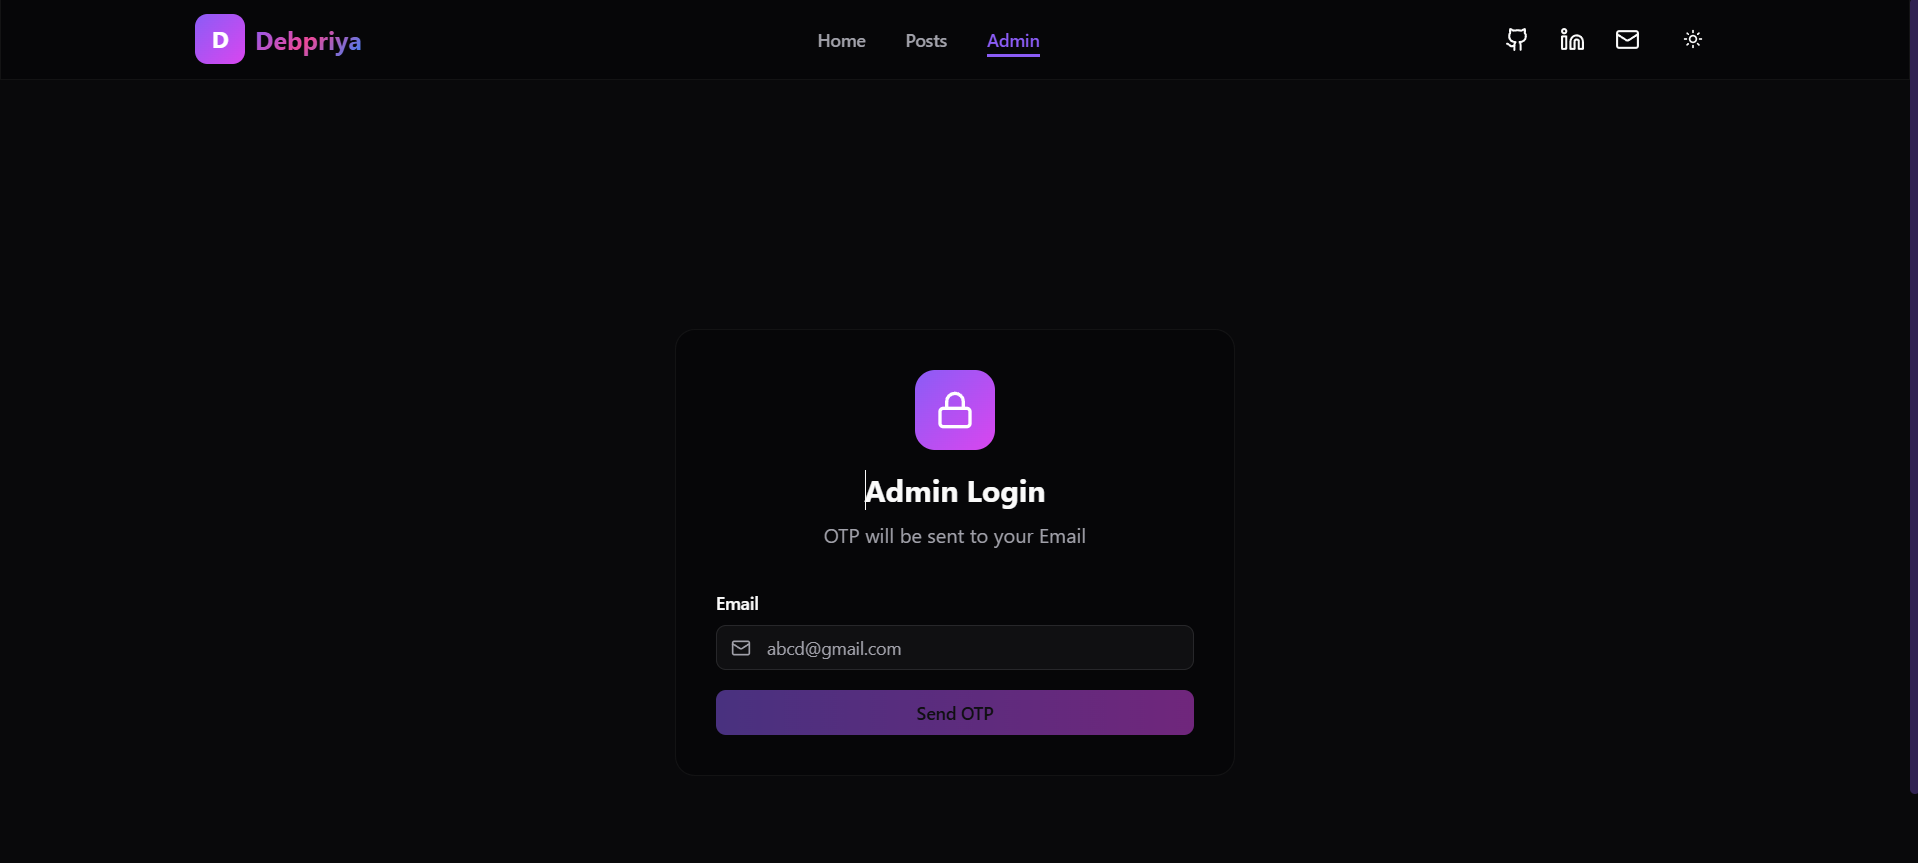
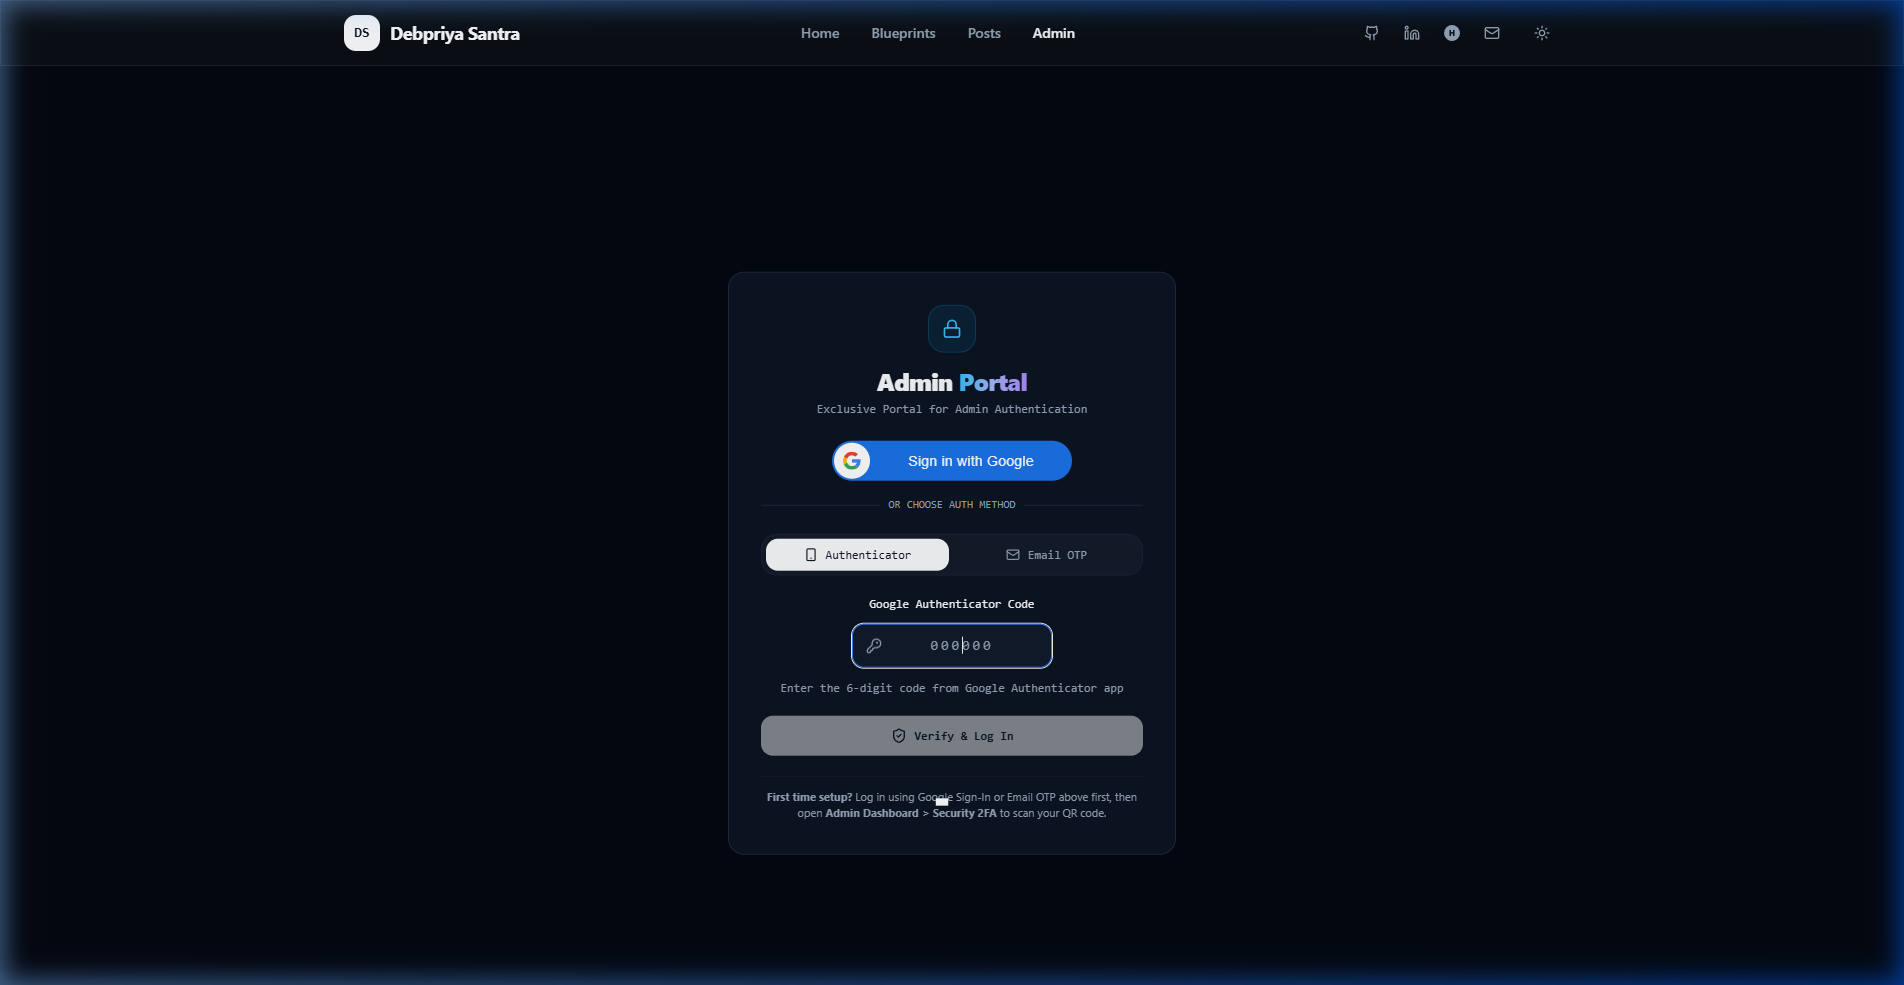
modified readme

Changed region(s): [[0.0, 0.0, 1.0, 1.0], [0.3718, 0.3013, 0.6507, 0.8737]]

diff --git a/README.md b/README.md
@@ -1,151 +1,184 @@
+# Debpriya Santra — Engineering Portfolio & Architecture Blueprints
 
-# My Portfolio Website
+🌐 **Live Demo:** [portfolio-7xje.onrender.com](https://portfolio-7xje.onrender.com/)
 
-🌐 Live Demo: https://portfolio-7xje.onrender.com/
+A modern, high-performance personal portfolio and engineering platform engineered with a bespoke dark/light technical design system, interactive data pipeline visualization, production automation blueprints, real-time LinkedIn activity sync, and an authenticated administrative suite.
 
+---
 
-## 📸 Application Preview
+## 📸 Application Previews
 
-| Home Page | Admin Login |
-|-----------|----------|
-| <img src="screenshots/home.png" width="450"/> | <img src="screenshots/admin login.png" width="450"/> |
+| Home Page & Pipeline Visualization                            | API Architecture & Blueprints                                                     |
+| :-------------------------------------------------------------:| :---------------------------------------------------------------------------------:|
+| <img src="screenshots/home.png" width="480" alt="Home Page"/> | <img src="screenshots/blueprints.png" width="480" alt="Architecture Blueprints"/> |
 
-| Admin Dashboard | Posts Management |
-|-----------------|----------------|
-| <img src="screenshots/admin-dashboard.png" width="450"/> | <img src="screenshots/posts.png" width="450"/> |
+| LinkedIn Activity & Engineering Notes | Admin Authentication & 2FA Portal |
+| :---: | :---: |
+| <img src="screenshots/posts.png" width="480" alt="LinkedIn Activity"/> | <img src="screenshots/admin login.png" width="480" alt="Admin Portal"/> |
 
-This is a full-stack web application that serves as my personal portfolio. It showcases my skills, experience, education, and projects. The application is built with a modern tech stack, featuring a React frontend and a Node.js/Express backend.
+---
 
-## Tech Stack
+## ⚡ Key Highlights & Architecture
+
+### 1. Interactive Pipeline & Workflow Telemetry
+- Real-time telemetry nodes demonstrating end-to-end data pipelines: ingestion, transformation, queueing, storage, and analytics.
+- Fluid pulse animations, status badges, and interactive tooltips.
+
+### 2. Production API Architecture & Automation Blueprints
+- In-depth technical guides for distributed workflows (e.g. *Pinterest v5 Asynchronous Upload Engine*, *PyViz Python AST Debugger*, *Mutual Fund Analytics Suite*).
+- Multi-stage sequential execution flows, endpoint schemas, sanitized parameters, and direct downloadable JSON assets.
+
+### 3. LinkedIn Activity & Engineering Notes
+- Integrated LinkedIn scraper engine storing posts, metrics (likes/comments), and media payloads into Neon PostgreSQL.
+- Instant manual sync and background updates.
+
+### 4. Secure Admin Suite with Multi-Factor 2FA
+- **Google OAuth:** One-tap sign-in restricted to authorized admin credentials.
+- **Google Authenticator (TOTP 2FA):** QR code provisioning and 6-digit TOTP verification.
+- **Email OTP:** Automated one-time passcode delivery powered by Brevo SMTP.
+- **Content & Inbox Management:** Dedicated dashboard tabs for managing posts, contact inbox messages, work history, skills, and security keys.
+
+### 5. Interactive Chatbot Assistant
+- Floating digital assistant widget with conversational navigation shortcuts to blueprints, guides, and activity feeds.
+
+---
+
+## 🛠 Technology Stack
 
 ### Frontend
+- **Framework:** React 19 + TypeScript
+- **Bundler:** Vite 7
+- **Styling:** Tailwind CSS + Bespoke High-Contrast Design System
+- **Animation & Motion:** Framer Motion
+- **Icons:** Lucide React
+- **Notifications:** Sonner Toast Engine
 
-- **Framework:** React
-- **Build Tool:** Vite
-- **Styling:** Tailwind CSS
-- **UI Components:** Radix UI, shadcn/ui
-- **Routing:** React Router
-- **State Management:** React Context
-- **Language:** TypeScript
+### Backend & Cloud Services
+- **Runtime:** Node.js + Express.js (ES Modules)
+- **Database:** Neon Serverless PostgreSQL
+- **Authentication:** Google OAuth 2.0 + TOTP (Speakeasy / QRCode) + Brevo Email OTP
+- **Scraping & Ingestion:** Custom LinkedIn extractor with Axios & Cheerio
+- **Deployment:** Render (Frontend & API Services)
 
-### Backend
+---
 
-- **Framework:** Express.js
-- **Database:** PostgreSQL (Neon Serverless)
-- **Authentication:** OTP-based admin login
-- **File Uploads:** Multer
-- **Email Service:** Brevo (via Nodemailer SMTP)
-- **Language:** JavaScript (ES Modules)
-
-## Deployment
-
-The application is deployed using modern cloud services.
-
-- **Frontend Hosting:** Render
-- **Backend Hosting:** Render
-- **Database:** Neon (Serverless PostgreSQL)
-- **Email Service:** Brevo (SMTP)
-
-## Getting Started
+## 🚀 Getting Started Locally
 
 ### Prerequisites
-
 - Node.js (v18 or higher)
-- npm
-- PostgreSQL
+- npm or pnpm
+- PostgreSQL connection string (Neon or Local)
 
-### Installation
+### 1. Clone the repository
+```bash
+git clone https://github.com/debpriya3011/PORTFOLIO.git
+cd PORTFOLIO/app
+```
 
-1.  **Clone the repository:**
-    ```bash
-    git clone <repository-url>
-    cd debpriya_portfolio/app
-    ```
+### 2. Install dependencies
+```bash
+# Install frontend dependencies
+npm install
 
-2.  **Install frontend dependencies:**
-    ```bash
-    npm install
-    ```
+# Install backend dependencies
+cd server
+npm install
+cd ..
+```
 
-3.  **Install backend dependencies:**
-    ```bash
-    cd server
-    npm install
-    cd ..
-    ```
+### 3. Configure Environment Variables
+Create a `.env` file in the `server/` directory:
+```env
+PORT=3001
+FRONTEND_URL=http://localhost:5173
+DATABASE_URL=postgresql://user:password@host:port/database
+GMAIL_USER=your-email@gmail.com
+GMAIL_APP_PASSWORD=your-app-password
+BREVO_LOGIN=your-brevo-login
+BREVO_SMTP_KEY=your-brevo-smtp-key
+ADMIN_EMAIL=debpriya3011@gmail.com
+```
 
-4.  **Set up environment variables:**
+Create a `.env` file in the `app/` directory:
+```env
+VITE_API_URL=http://localhost:3001
+VITE_GOOGLE_CLIENT_ID=your-google-client-id.apps.googleusercontent.com
+```
 
-    Create a `.env` file in the `server` directory and add the following variables:
+### 4. Run Development Servers
+```bash
+# Terminal 1: Run Backend API
+cd server
+npm run dev
 
-    ```
-    PORT=3001
-    FRONTEND_URL=http://localhost:5173
-    DATABASE_URL=postgresql://user:password@host:port/database
-    GMAIL_USER=your-email@gmail.com
-    GMAIL_APP_PASSWORD=your-gmail-app-password
-    BREVO_LOGIN=your-brevo-login
-    BREVO_SMTP_KEY=your-brevo-smtp-key
-    ```
+# Terminal 2: Run Frontend (from app directory)
+npm run dev
+```
+Open `http://localhost:5173` to explore the application.
 
-### Running the Application
+---
 
-1.  **Start the backend server:**
-    ```bash
-    cd server
-    npm run dev
-    ```
-
-2.  **Start the frontend development server:**
-    ```bash
-    # In a new terminal, from the root `app` directory
-    npm run dev
-    ```
-
-The application should now be running at `http://localhost:5173`.
-
-## Folder Structure
+## 📂 Project Structure
 
 ```
 app/
-├── server/               # Backend (Express.js)
-│   ├── database.js
-│   ├── index.js
-│   ├── package.json
-│   └── uploads/
-├── src/                  # Frontend (React)
-│   ├── components/
-│   ├── contexts/
-│   ├── hooks/
-│   ├── lib/
-│   ├── pages/
-│   ├── api.ts
-│   ├── App.tsx
-│   └── main.tsx
+├── screenshots/          # High-resolution application preview captures
+│   ├── home.png
+│   ├── blueprints.png
+│   ├── posts.png
+│   ├── admin login.png
+│   └── admin-dashboard.png
+├── server/               # Express.js REST API & Database Models
+│   ├── database.js       # Neon PostgreSQL connection & schema
+│   ├── index.js          # Route handlers, auth & scraping
+│   └── package.json
+├── src/                  # React Application
+│   ├── components/       # Reusable UI & Section components
+│   │   ├── Hero.tsx
+│   │   ├── WorkflowVisualization.tsx
+│   │   ├── Experience.tsx
+│   │   ├── Skills.tsx
+│   │   ├── Education.tsx
+│   │   ├── Contact.tsx
+│   │   ├── PostsWidget.tsx
+│   │   ├── Navbar.tsx
+│   │   └── Footer.tsx
+│   ├── pages/            # Page Views
+│   │   ├── Home.tsx
+│   │   ├── Guides.tsx    # Architecture Blueprints & Guides
+│   │   ├── Posts.tsx     # LinkedIn Engineering Notes
+│   │   └── Admin.tsx     # Authenticated Admin Dashboard
+│   ├── contexts/         # Auth & Theme Context Providers
+│   ├── data/             # Blueprint guides & architecture metadata
+│   ├── index.css         # Theme tokens & contrast utilities
+│   └── App.tsx
 ├── package.json
 └── vite.config.ts
 ```
 
-## API Endpoints
+---
 
-The backend exposes the following REST API endpoints:
+## 📡 Key API Endpoints
 
-- `POST /api/auth/send-otp`: Sends an OTP for admin login.
-- `POST /api/auth/verify-otp`: Verifies the OTP.
-- `GET /api/scrape-linkedin`: Scrapes a LinkedIn post.
-- `GET, POST, DELETE /api/posts`: Manage blog posts.
-- `GET, POST, DELETE /api/images`: Manage images.
-- `GET, POST, DELETE /api/skills`: Manage skills.
-- `GET, POST, DELETE /api/experience`: Manage work experience.
-- `GET, POST /api/education`: Manage education history.
-- `GET, POST /api/certifications`: Manage certifications.
-- `GET, POST, DELETE /api/workflows`: Manage workflow visualizations.
+| Method | Endpoint | Description |
+| :--- | :--- | :--- |
+| `POST` | `/api/auth/google` | Verify Google OAuth credential token |
+| `POST` | `/api/auth/send-otp` | Dispatch email OTP via Brevo SMTP |
+| `POST` | `/api/auth/verify-otp` | Validate email OTP session |
+| `POST` | `/api/auth/totp/setup` | Generate TOTP secret & QR code |
+| `POST` | `/api/auth/totp/verify` | Authenticate with Google Authenticator |
+| `GET, POST, DELETE` | `/api/posts` | LinkedIn posts data store |
+| `POST` | `/api/posts/refresh-all` | Re-fetch latest LinkedIn metrics |
+| `GET, POST` | `/api/contact` | Submit and retrieve visitor messages |
+| `GET, POST, DELETE` | `/api/experience` | Manage work experience history |
+| `GET, POST, DELETE` | `/api/skills` | Manage categorized skill taxonomy |
 
-For more details, refer to the `server/index.js` file.
+---
 
+## 👨💻 Author
 
-
-
-## Author
-
-Debpriya Santra
+**Debpriya Santra**
+- 🌐 Portfolio: [portfolio-7xje.onrender.com](https://portfolio-7xje.onrender.com/)
+- 💼 LinkedIn: [linkedin.com/in/debpriya-santra](https://www.linkedin.com/in/debpriya-santra-459519251/)
+- 🐙 GitHub: [github.com/debpriya3011](https://github.com/debpriya3011)
+- 🏆 HackerRank: [hackerrank.com/debpriya3011](https://www.hackerrank.com/profile/debpriya3011)
